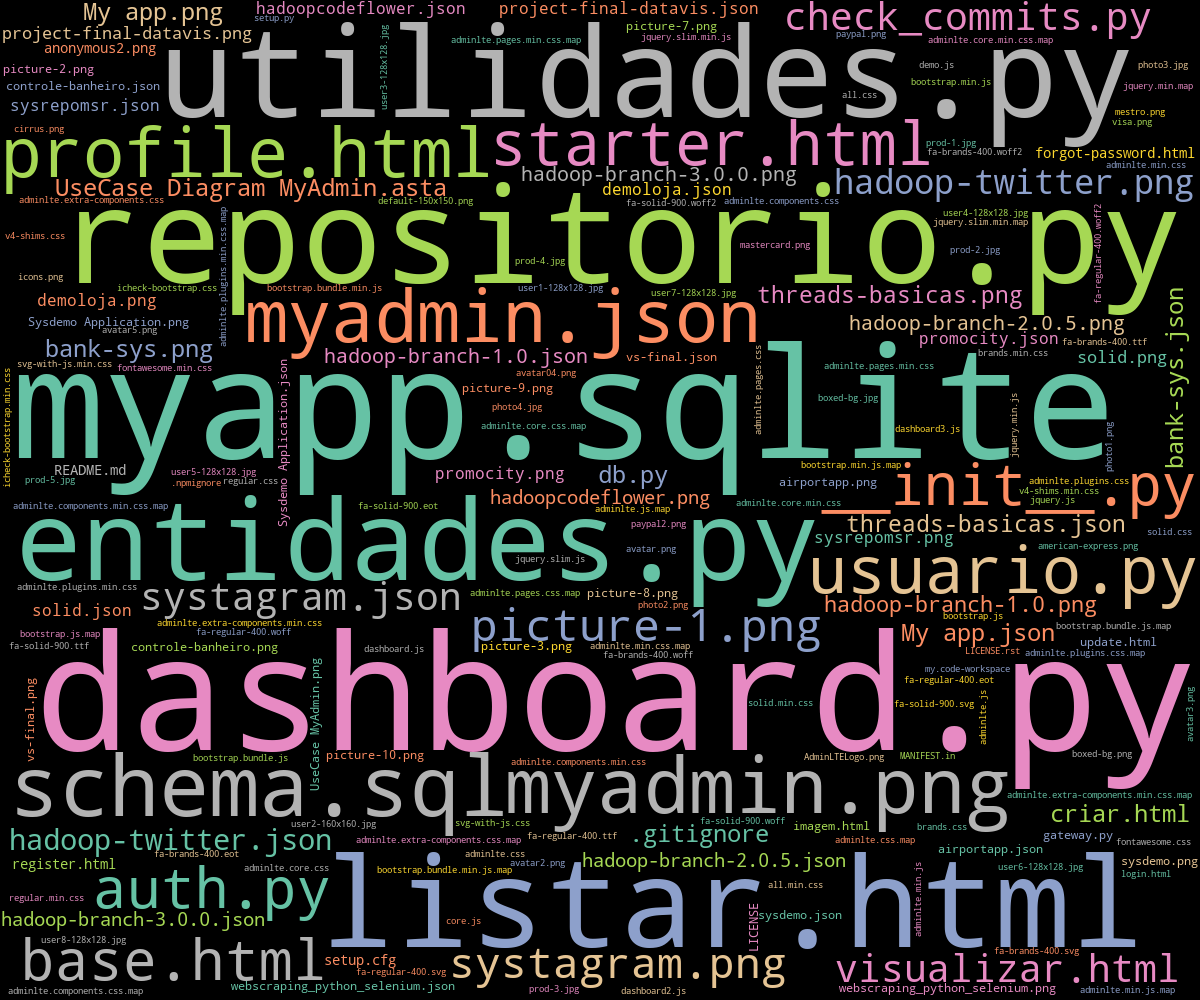
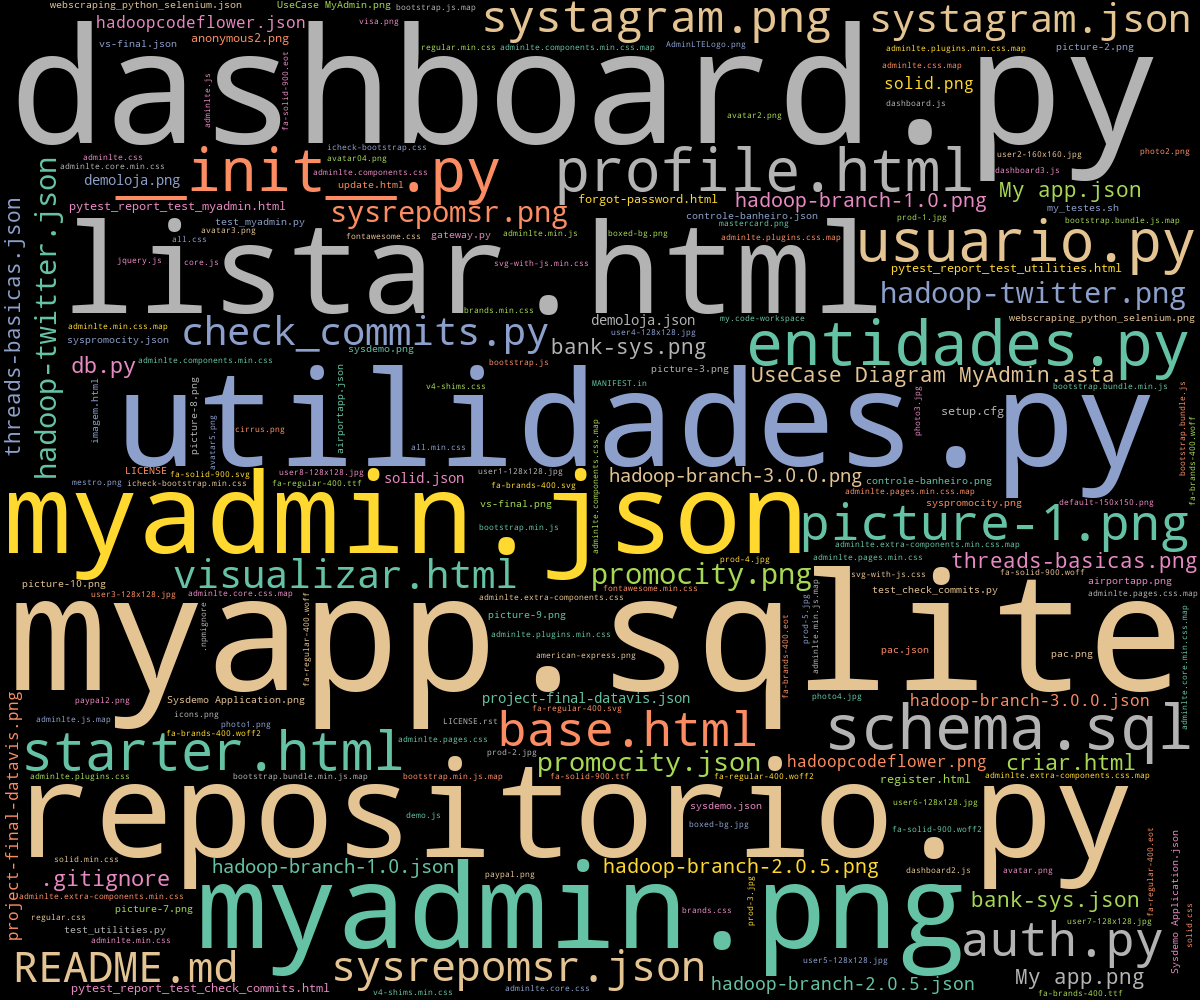
Fixed app path

diff --git a/tests/pytest_report_test_utilities.html b/tests/pytest_report_test_utilities.html
@@ -426,7 +426,7 @@ function filter_table(elem) { // eslint-disable-line no-unused-vars
 }
 </script>
     <h1>pytest_report_test_utilities.html</h1>
-    <p>Report generated on 22-Dec-2020 at 21:04:44 by <a href="https://pypi.python.org/pypi/pytest-html">pytest-html</a> v3.1.0</p>
+    <p>Report generated on 30-Dec-2020 at 17:14:41 by <a href="https://pypi.python.org/pypi/pytest-html">pytest-html</a> v3.1.0</p>
     <h2>Environment</h2>
     <table id="environment">
       <tr>
@@ -442,7 +442,7 @@ function filter_table(elem) { // eslint-disable-line no-unused-vars
         <td>Python</td>
         <td>3.6.3</td></tr></table>
     <h2>Summary</h2>
-    <p>9 tests ran in 18.59 seconds. </p>
+    <p>9 tests ran in 24.04 seconds. </p>
     <p class="filter" hidden="true">(Un)check the boxes to filter the results.</p><input checked="true" class="filter" data-test-result="passed" hidden="true" name="filter_checkbox" onChange="filter_table(this)" type="checkbox"/><span class="passed">9 passed</span>, <input checked="true" class="filter" data-test-result="skipped" disabled="true" hidden="true" name="filter_checkbox" onChange="filter_table(this)" type="checkbox"/><span class="skipped">0 skipped</span>, <input checked="true" class="filter" data-test-result="failed" disabled="true" hidden="true" name="filter_checkbox" onChange="filter_table(this)" type="checkbox"/><span class="failed">0 failed</span>, <input checked="true" class="filter" data-test-result="error" disabled="true" hidden="true" name="filter_checkbox" onChange="filter_table(this)" type="checkbox"/><span class="error">0 errors</span>, <input checked="true" class="filter" data-test-result="xfailed" disabled="true" hidden="true" name="filter_checkbox" onChange="filter_table(this)" type="checkbox"/><span class="xfailed">0 expected failures</span>, <input checked="true" class="filter" data-test-result="xpassed" disabled="true" hidden="true" name="filter_checkbox" onChange="filter_table(this)" type="checkbox"/><span class="xpassed">0 unexpected passes</span>
     <h2>Results</h2>
     <table id="results-table">
@@ -468,7 +468,7 @@ function filter_table(elem) { // eslint-disable-line no-unused-vars
         <tr>
           <td class="col-result">Passed</td>
           <td class="col-name">tests/test_utilities.py::TestUtilities::test_displayablepath</td>
-          <td class="col-duration">0.05</td>
+          <td class="col-duration">0.08</td>
           <td class="col-links"></td></tr>
         <tr>
           <td class="extra" colspan="4">
@@ -751,7 +751,7 @@ function filter_table(elem) { // eslint-disable-line no-unused-vars
         <tr>
           <td class="col-result">Passed</td>
           <td class="col-name">tests/test_utilities.py::TestUtilities::test_git_clone_remote_repository</td>
-          <td class="col-duration">10.54</td>
+          <td class="col-duration">15.89</td>
           <td class="col-links"></td></tr>
         <tr>
           <td class="extra" colspan="4">
@@ -925,7 +925,8 @@ Tamanho do dicionario: 8
           <td class="col-links"></td></tr>
         <tr>
           <td class="extra" colspan="4">
-            <div class="log"> ------------------------------Captured stdout call------------------------------ <br/>./.coverage
+            <div class="log"> ------------------------------Captured stdout call------------------------------ <br/>./.DS_Store
+./.coverage
 ./test_utilities.py
 ./__init__.py
 ./pytest_report_test_utilities.html
@@ -935,6 +936,7 @@ Tamanho do dicionario: 8
 ./test_check_commits.py
 ./pytest_report_test_check_commits.html
 ./sysrepomsr.json
+./__pycache__/test_check_commits.cpython-36-pytest-6.1.2.pyc
 ./__pycache__/test_utilities.cpython-36-pytest-6.1.2.pyc
 ./__pycache__/test_myadmin.cpython-36-pytest-6.1.2.pyc
 ./__pycache__/__init__.cpython-36.pyc
@@ -967,7 +969,7 @@ Tamanho do dicionario: 8
         <tr>
           <td class="col-result">Passed</td>
           <td class="col-name">tests/test_utilities.py::TestUtilities::test_list_files</td>
-          <td class="col-duration">0.01</td>
+          <td class="col-duration">0.04</td>
           <td class="col-links"></td></tr>
         <tr>
           <td class="extra" colspan="4">
@@ -1250,7 +1252,7 @@ Tamanho do dicionario: 8
         <tr>
           <td class="col-result">Passed</td>
           <td class="col-name">tests/test_utilities.py::TestUtilities::test_run_command</td>
-          <td class="col-duration">1.47</td>
+          <td class="col-duration">1.57</td>
           <td class="col-links"></td></tr>
         <tr>
           <td class="extra" colspan="4">

diff --git a/tests/pytest_report_test_myadmin.html b/tests/pytest_report_test_myadmin.html
@@ -426,7 +426,7 @@ function filter_table(elem) { // eslint-disable-line no-unused-vars
 }
 </script>
     <h1>pytest_report_test_myadmin.html</h1>
-    <p>Report generated on 22-Dec-2020 at 21:04:24 by <a href="https://pypi.python.org/pypi/pytest-html">pytest-html</a> v3.1.0</p>
+    <p>Report generated on 30-Dec-2020 at 17:14:16 by <a href="https://pypi.python.org/pypi/pytest-html">pytest-html</a> v3.1.0</p>
     <h2>Environment</h2>
     <table id="environment">
       <tr>
@@ -442,7 +442,7 @@ function filter_table(elem) { // eslint-disable-line no-unused-vars
         <td>Python</td>
         <td>3.6.3</td></tr></table>
     <h2>Summary</h2>
-    <p>5 tests ran in 27.06 seconds. </p>
+    <p>5 tests ran in 42.70 seconds. </p>
     <p class="filter" hidden="true">(Un)check the boxes to filter the results.</p><input checked="true" class="filter" data-test-result="passed" hidden="true" name="filter_checkbox" onChange="filter_table(this)" type="checkbox"/><span class="passed">5 passed</span>, <input checked="true" class="filter" data-test-result="skipped" disabled="true" hidden="true" name="filter_checkbox" onChange="filter_table(this)" type="checkbox"/><span class="skipped">0 skipped</span>, <input checked="true" class="filter" data-test-result="failed" disabled="true" hidden="true" name="filter_checkbox" onChange="filter_table(this)" type="checkbox"/><span class="failed">0 failed</span>, <input checked="true" class="filter" data-test-result="error" disabled="true" hidden="true" name="filter_checkbox" onChange="filter_table(this)" type="checkbox"/><span class="error">0 errors</span>, <input checked="true" class="filter" data-test-result="xfailed" disabled="true" hidden="true" name="filter_checkbox" onChange="filter_table(this)" type="checkbox"/><span class="xfailed">0 expected failures</span>, <input checked="true" class="filter" data-test-result="xpassed" disabled="true" hidden="true" name="filter_checkbox" onChange="filter_table(this)" type="checkbox"/><span class="xpassed">0 unexpected passes</span>
     <h2>Results</h2>
     <table id="results-table">
@@ -458,7 +458,7 @@ function filter_table(elem) { // eslint-disable-line no-unused-vars
         <tr>
           <td class="col-result">Passed</td>
           <td class="col-name">tests/test_myadmin.py::TestMyadminUI::test_carrega_membros</td>
-          <td class="col-duration">5.81</td>
+          <td class="col-duration">10.01</td>
           <td class="col-links"></td></tr>
         <tr>
           <td class="extra" colspan="4">
@@ -467,7 +467,7 @@ function filter_table(elem) { // eslint-disable-line no-unused-vars
         <tr>
           <td class="col-result">Passed</td>
           <td class="col-name">tests/test_myadmin.py::TestMyadminUI::test_carrega_meus_repositorios</td>
-          <td class="col-duration">5.03</td>
+          <td class="col-duration">7.83</td>
           <td class="col-links"></td></tr>
         <tr>
           <td class="extra" colspan="4">
@@ -476,7 +476,7 @@ function filter_table(elem) { // eslint-disable-line no-unused-vars
         <tr>
           <td class="col-result">Passed</td>
           <td class="col-name">tests/test_myadmin.py::TestMyadminUI::test_home</td>
-          <td class="col-duration">5.24</td>
+          <td class="col-duration">7.77</td>
           <td class="col-links"></td></tr>
         <tr>
           <td class="extra" colspan="4">
@@ -485,7 +485,7 @@ function filter_table(elem) { // eslint-disable-line no-unused-vars
         <tr>
           <td class="col-result">Passed</td>
           <td class="col-name">tests/test_myadmin.py::TestMyadminUI::test_sair</td>
-          <td class="col-duration">5.46</td>
+          <td class="col-duration">7.99</td>
           <td class="col-links"></td></tr>
         <tr>
           <td class="extra" colspan="4">
@@ -494,7 +494,7 @@ function filter_table(elem) { // eslint-disable-line no-unused-vars
         <tr>
           <td class="col-result">Passed</td>
           <td class="col-name">tests/test_myadmin.py::TestMyadminUI::test_visualiza_repositorio</td>
-          <td class="col-duration">5.31</td>
+          <td class="col-duration">8.81</td>
           <td class="col-links"></td></tr>
         <tr>
           <td class="extra" colspan="4">

diff --git a/tests/pytest_report_test_check_commits.html b/tests/pytest_report_test_check_commits.html
@@ -426,7 +426,7 @@ function filter_table(elem) { // eslint-disable-line no-unused-vars
 }
 </script>
     <h1>pytest_report_test_check_commits.html</h1>
-    <p>Report generated on 22-Dec-2020 at 21:04:57 by <a href="https://pypi.python.org/pypi/pytest-html">pytest-html</a> v3.1.0</p>
+    <p>Report generated on 30-Dec-2020 at 17:15:10 by <a href="https://pypi.python.org/pypi/pytest-html">pytest-html</a> v3.1.0</p>
     <h2>Environment</h2>
     <table id="environment">
       <tr>
@@ -442,7 +442,7 @@ function filter_table(elem) { // eslint-disable-line no-unused-vars
         <td>Python</td>
         <td>3.6.3</td></tr></table>
     <h2>Summary</h2>
-    <p>3 tests ran in 11.74 seconds. </p>
+    <p>3 tests ran in 27.22 seconds. </p>
     <p class="filter" hidden="true">(Un)check the boxes to filter the results.</p><input checked="true" class="filter" data-test-result="passed" hidden="true" name="filter_checkbox" onChange="filter_table(this)" type="checkbox"/><span class="passed">3 passed</span>, <input checked="true" class="filter" data-test-result="skipped" disabled="true" hidden="true" name="filter_checkbox" onChange="filter_table(this)" type="checkbox"/><span class="skipped">0 skipped</span>, <input checked="true" class="filter" data-test-result="failed" disabled="true" hidden="true" name="filter_checkbox" onChange="filter_table(this)" type="checkbox"/><span class="failed">0 failed</span>, <input checked="true" class="filter" data-test-result="error" disabled="true" hidden="true" name="filter_checkbox" onChange="filter_table(this)" type="checkbox"/><span class="error">0 errors</span>, <input checked="true" class="filter" data-test-result="xfailed" disabled="true" hidden="true" name="filter_checkbox" onChange="filter_table(this)" type="checkbox"/><span class="xfailed">0 expected failures</span>, <input checked="true" class="filter" data-test-result="xpassed" disabled="true" hidden="true" name="filter_checkbox" onChange="filter_table(this)" type="checkbox"/><span class="xpassed">0 unexpected passes</span>
     <h2>Results</h2>
     <table id="results-table">
@@ -458,7 +458,7 @@ function filter_table(elem) { // eslint-disable-line no-unused-vars
         <tr>
           <td class="col-result">Passed</td>
           <td class="col-name">tests/test_check_commits.py::TestCheckCommits::test_counterWithFrequencyOfFile</td>
-          <td class="col-duration">0.39</td>
+          <td class="col-duration">0.44</td>
           <td class="col-links"></td></tr>
         <tr>
           <td class="extra" colspan="4">
@@ -469,7 +469,7 @@ Counter({&#x27;README.md&#x27;: 9, &#x27;utilities.py&#x27;: 8, &#x27;pytest_rep
         <tr>
           <td class="col-result">Passed</td>
           <td class="col-name">tests/test_check_commits.py::TestCheckCommits::test_dictionaryWithAllCommmits</td>
-          <td class="col-duration">8.03</td>
+          <td class="col-duration">23.12</td>
           <td class="col-links"></td></tr>
         <tr>
           <td class="extra" colspan="4">
@@ -616,7 +616,7 @@ O repositorio remoto /Users/armandosoaressousa/testes/sysrepomsr foi criado com 
         <tr>
           <td class="col-result">Passed</td>
           <td class="col-name">tests/test_check_commits.py::TestCheckCommits::test_generateWordCloud</td>
-          <td class="col-duration">2.42</td>
+          <td class="col-duration">2.61</td>
           <td class="col-links"></td></tr>
         <tr>
           <td class="extra" colspan="4">

diff --git a/myapp/__init__.py b/myapp/__init__.py
@@ -7,6 +7,7 @@ from myapp.control import auth
 from myapp.control import dashboard
 from myapp.control import usuario
 from myapp.control import repositorio
+from myapp.utils.utilidades import Constant
 
 def create_app(test_config=None):
     """Create and configure an instance of the Flask application."""
@@ -33,6 +34,16 @@ def create_app(test_config=None):
 
     @app.route("/sobre")
     def hello():
+        print('Diretorio da app: {}'. format(os.path.dirname(app.instance_path)))    
+        print('Myapp path: {}'.format(app.root_path))
+        print('App instance path: {}'.format(app.instance_path))
+        print('')
+        print('myadmin: {}'.format(Constant.PATH_MYADMIN))
+        print('myapp: {}'.format(Constant.PATH_MYAPP))
+        print('static: {}'.format(Constant.PATH_STATIC))
+        print('uploads: {}'.format(Constant.PATH_UPLOADS))
+        print('img: {}'.format(Constant.PATH_IMG))
+        print('json: {}'.format(Constant.PATH_JSON))    
         return "Aplicacao Web Python usando Flask"
 
     db.init_app(app)

diff --git a/myapp/utils/utilidades.py b/myapp/utils/utilidades.py
@@ -214,12 +214,12 @@ class DisplayablePath(object):
 #    print(path.displayable())
 
 class Constant:
-    PATH_MYADMIN = '/Users/armandosoaressousa/git/myadmin'
-    PATH_MYAPP = '/Users/armandosoaressousa/git/myadmin/myapp'
-    PATH_STATIC = '/Users/armandosoaressousa/git/myadmin/myapp/static'
-    PATH_IMG = '/Users/armandosoaressousa/git/myadmin/myapp/static/img'
-    PATH_JSON = '/Users/armandosoaressousa/git/myadmin/myapp/static/json'
-    PATH_UPLOADS = '/Users/armandosoaressousa/git/myadmin/myapp/static/uploads'
+    PATH_MYADMIN = os.path.abspath(os.getcwd())
+    PATH_MYAPP = PATH_MYADMIN + '/myapp'
+    PATH_STATIC = PATH_MYADMIN + '/myapp/static'
+    PATH_IMG = PATH_MYADMIN + '/myapp/static/img'
+    PATH_JSON = PATH_MYADMIN + '/myapp/static/json'
+    PATH_UPLOADS = PATH_MYADMIN + '/myapp/static/uploads'
 
 #git_remote = 'https://github.com/armandossrecife/sysdemo.git'
 #git_root = '/Users/armandosoaressousa/git/myadmin/temp/sysdemo'

diff --git a/myapp/control/repositorio.py b/myapp/control/repositorio.py
@@ -109,7 +109,6 @@ def dados_do_repositorio(id):
 def listar():
     #Carrega repositorios registrados pelo usuario
     lista_repositorios = lista_repositorios_usuario(g.user["id"])
-        
     return render_template("repositorio/listar.html", usuario = g.user['username'], 
             profilePic=g.user['image'], titulo="Repositorios", repositorios=lista_repositorios)
 
